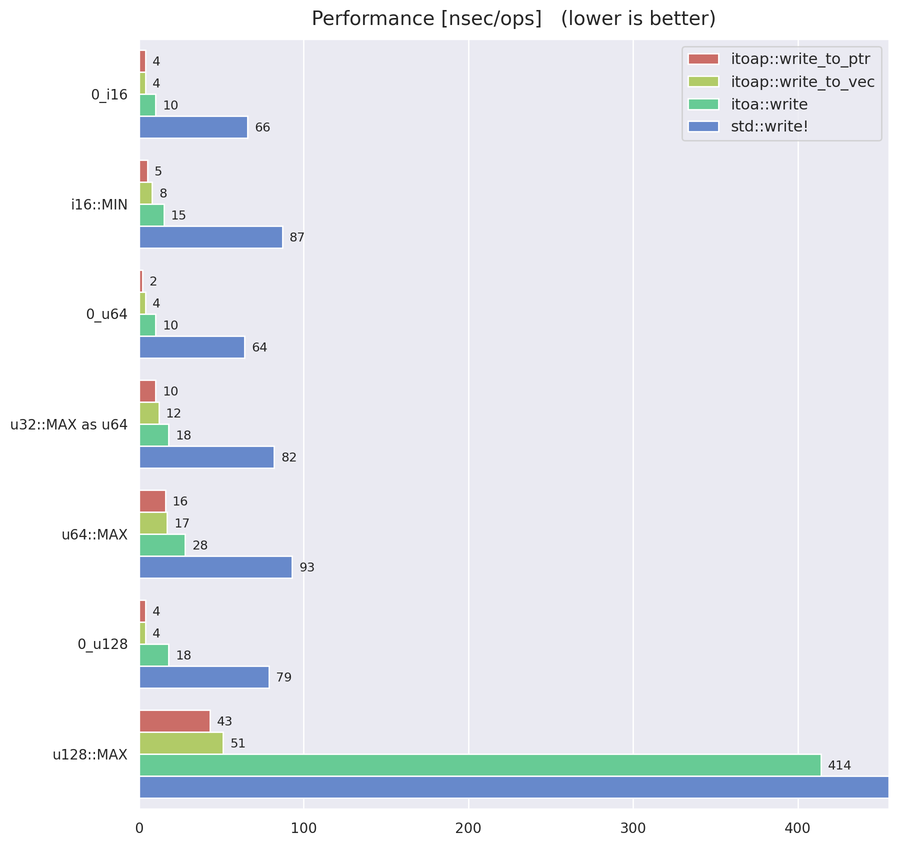
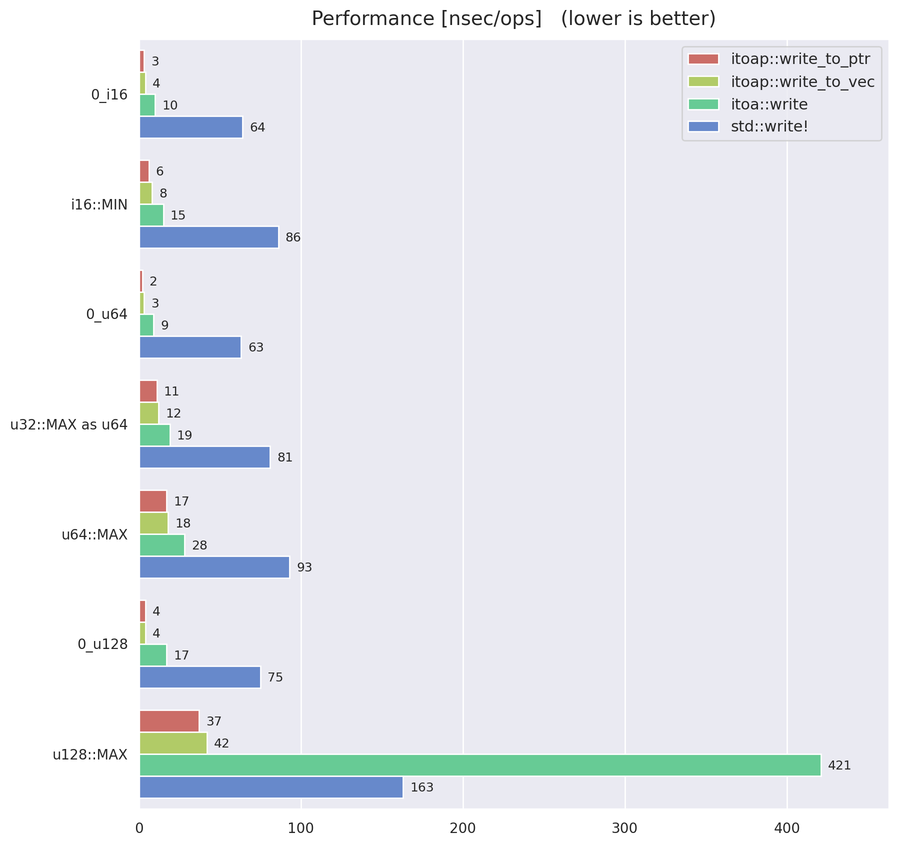
Update benchmark result

diff --git a/README.md b/README.md
@@ -29,10 +29,13 @@ That's why `itoap` is faster than `itoa`.
 
 Benchmark program was executed under the following environment:
 
-* CPU model name: Intel(R) Core(TM) i5-8265U CPU @ 1.60GHz
-* CPU micro architecture: Sky Lake
-* Standard libc implementation: glibc 2.31.0
-* Rust compiler: rustc 1.48.0
+
+|Hardware/Software|Version|
+|--|--|
+|CPU model name|Intel(R) Core(TM) i5-8265U CPU @ 1.60GHz|
+|CPU micro architecture|Sky Lake|
+|Standard libc implementation|glibc 2.31.0|
+|rustc|1.51.0-nightly (368275062 2021-02-02)|
 
 ![Benchmark result](./bench.png)
 
